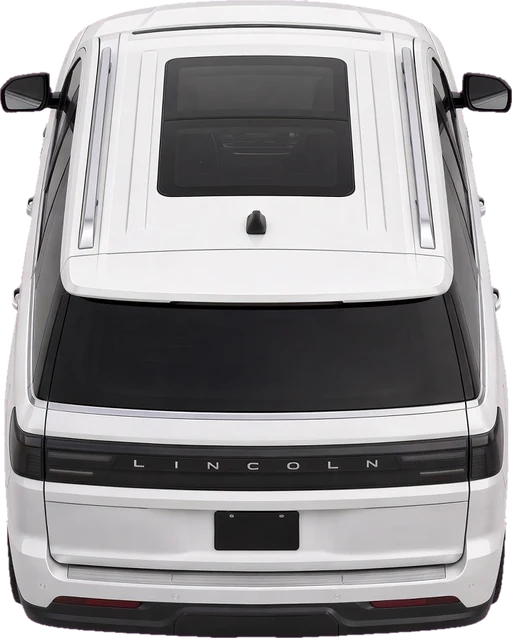
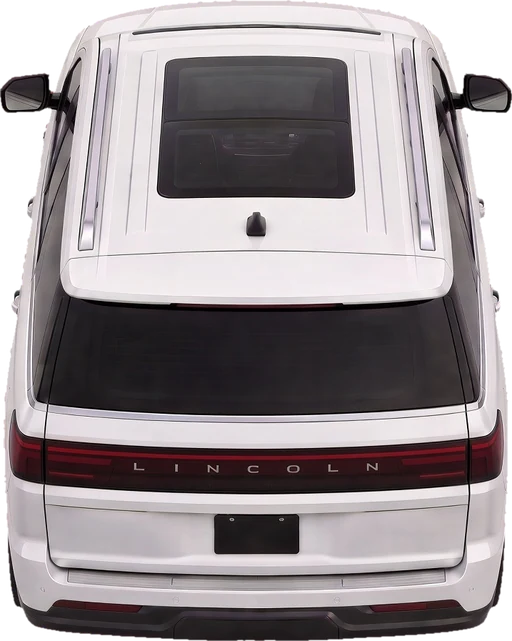
Navigator: new photo with the lit red light bar; brake lights cover the whole bar
The tail/brake glow is now a mask cut from the photo's own red pixels, so it spans the
full-width bar and the wrap-around corner lamps; headlight beams line up with the front corners.

Claude-Session: https://claude.ai/code/session_01NgWuqjc17Gt1pKWKRNaJz1

diff --git a/js/game.js b/js/game.js
@@ -285,20 +285,20 @@ shadow.rotation.x=-Math.PI/2; shadow.position.y=.03; car.add(shadow);
 //   piv   where the car's centre sits, as a fraction of the picture's height from the bottom
 //   glow  tail/brake light centres [x, y] (or [x, y, w, h]) as fractions of the picture (x from the left, y from the bottom); gw/gh glow size × W
 //   lamp  headlight offset from the centre line (m), front = front bumper distance ahead of the centre (m) — for the beams
+//   lights optional mask picture the same size as the photo, lit like the glows (used instead of glow spots)
 //   sound engine in js/enh/sound.js; vmax top speed in m/s (speedometer units) — cars without one keep the old behaviour
 const CARS={
   explorer:{name:'Ford Explorer ST',img:'img/explorer-rear.webp?v=1',W:2.35,piv:.38,glow:[[.088,.37],[.912,.37]],gw:.26,gh:.3,lamp:.68,front:2.4,sound:'ecoboost30'},
   // AMC Javelin (the owner's photo): one full-width tail-light bar low on the tail, reversing light in the middle
   javelin:{name:'AMC Javelin',img:'img/javelin-rear.webp?v=1',W:1.95,piv:.40,glow:[[.15,.2],[.27,.2],[.38,.2],[.62,.2],[.73,.2],[.85,.2]],gw:.15,gh:.12,lamp:.62,front:2.44,sound:'amc401',vmax:120/2.237},   // top speed 120 mph
-  // 2026 Lincoln Navigator (the owner's photo, white): tall corner lamps wrapping the tail, plus the full-width light bar
-  // that runs through the LINCOLN lettering — inner lamp sections brighter, the middle a thinner line. [x, y, w, h] sizes × W
-  navigator:{name:'Lincoln Navigator',img:'img/navigator-rear.webp?v=1',W:2.4,piv:.40,
-    glow:[[.053,.305,.06,.15],[.947,.305,.06,.15],[.156,.278,.14,.05],[.844,.278,.14,.05],[.31,.278,.15,.032],[.5,.278,.15,.032],[.69,.278,.15,.032]],
-    gw:.1,gh:.1,lamp:.76,front:2.67,sound:'ecoboost35'}
+  // 2026 Lincoln Navigator (the owner's photo, white, lit bar): the red full-width light bar and wrap-around corner lamps
+  // glow from a mask cut from the photo's own red pixels (img/navigator-lights.webp), so the light covers all of that red
+  navigator:{name:'Lincoln Navigator',img:'img/navigator-rear.webp?v=2',lights:'img/navigator-lights.webp?v=1',W:2.4,piv:.40,glow:[],
+    gw:.1,gh:.1,lamp:.74,front:2.67,sound:'ecoboost35'}
 };
 let CARKEY='explorer'; try{ const k=localStorage.getItem('ydCar'); if(CARS[k]) CARKEY=k; }catch(e){}
 let CARSPEC=CARS[CARKEY];
-const PHOTO={mesh:null,glow:null,on:!/[?&]car=3d\b/.test(location.search),key:null};
+const PHOTO={mesh:null,glow:null,lights:null,on:!/[?&]car=3d\b/.test(location.search),key:null};
 function loadPhoto(key){
   const c=CARS[key]; if(!PHOTO.on||!c) return;
   new THREE.TextureLoader().load(c.img,tex=>{
@@ -313,8 +313,14 @@ function loadPhoto(key){
     rg.addColorStop(0,'rgba(255,90,70,1)'); rg.addColorStop(.3,'rgba(255,30,25,.75)'); rg.addColorStop(1,'rgba(255,0,0,0)'); gx.fillStyle=rg; gx.fillRect(0,0,64,64);
     const gm=new THREE.MeshBasicMaterial({map:new THREE.CanvasTexture(gc),transparent:true,depthTest:false,depthWrite:false,blending:THREE.AdditiveBlending,opacity:0});
     for(const [fx,fy,fw,fh] of c.glow){ const q=new THREE.Mesh(new THREE.PlaneGeometry(W*(fw||c.gw),W*(fh||c.gh)),gm); q.position.set((fx-.5)*W,H*(fy-PIV),.01); q.renderOrder=11; m.add(q); }
-    const old=PHOTO.mesh; if(old){ scene.remove(old); old.geometry.dispose(); old.material.map.dispose(); old.material.dispose(); PHOTO.glow.map.dispose(); PHOTO.glow.dispose(); }
-    PHOTO.mesh=m; PHOTO.glow=gm; PHOTO.key=key; dirty=true;
+    // a light mask the size of the photo (red where the lamps are, with a soft bloom), added over it like the glows
+    let lm=null;
+    if(c.lights){ lm=new THREE.MeshBasicMaterial({transparent:true,depthTest:false,depthWrite:false,blending:THREE.AdditiveBlending,opacity:0});
+      const q=new THREE.Mesh(g,lm); q.position.z=.01; q.renderOrder=11; m.add(q);
+      new THREE.TextureLoader().load(c.lights,lt=>{ if(PHOTO.lights!==lm){ lt.dispose(); return; } lm.map=lt; lm.needsUpdate=true; dirty=true; },undefined,e=>console.warn('car light mask',e)); }
+    const old=PHOTO.mesh; if(old){ scene.remove(old); old.geometry.dispose(); old.material.map.dispose(); old.material.dispose(); PHOTO.glow.map.dispose(); PHOTO.glow.dispose();
+      if(PHOTO.lights){ if(PHOTO.lights.map) PHOTO.lights.map.dispose(); PHOTO.lights.dispose(); } }
+    PHOTO.mesh=m; PHOTO.glow=gm; PHOTO.lights=lm; PHOTO.key=key; dirty=true;
   },undefined,e=>console.warn('car photo could not load, using the 3D model',e));
 }
 // pick a car: swaps the photo, tells the headlights (atmos.js) and the engine sound (sound.js), remembers the choice
@@ -336,6 +342,7 @@ function placePhoto(braking){
   const hemi=scene.children.find(o=>o&&o.isHemisphereLight), b=Math.max(.32,Math.min(1,(hemi?hemi.intensity:.85)/.85+.08));
   m.material.color.setScalar(b);
   PHOTO.glow.opacity=braking?1:(tailOff.color.r>.7?.45:0);        // tailOff turns brighter at night (js/enh/atmos.js)
+  if(PHOTO.lights) PHOTO.lights.opacity=PHOTO.lights.map?PHOTO.glow.opacity:0;
 }
 
 

diff --git a/index.html b/index.html
@@ -60,7 +60,7 @@
 </div>
 <script src="js/errors.js?v=3"></script>
 <script src="js/update.js?v=1"></script>
-<script src="js/game.js?v=25"></script>
+<script src="js/game.js?v=26"></script>
 <script src="js/enh/core.js?v=3"></script>
 <script src="js/enh/roads.js?v=10"></script>
 <script src="js/enh/signs.js?v=6"></script>
